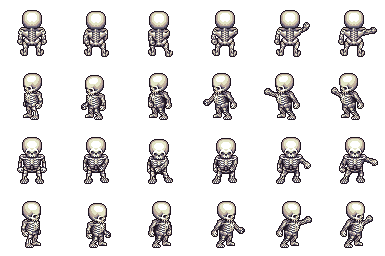
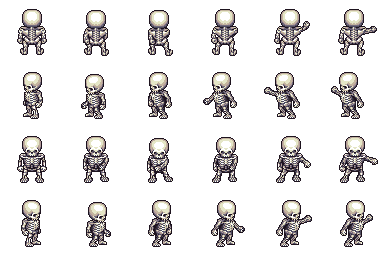
recropped skeleton attack png, now slightly better alligned

diff --git a/TimeCaster/code/Enemy.cpp b/TimeCaster/code/Enemy.cpp
@@ -218,7 +218,7 @@ void Enemy::Attack()
 	m_SpriteWeapon.setOrigin((64 * m_WeaponSize) / 2, (64 * m_WeaponSize) / 2);
 	m_SpriteWeapon.setScale(0.75, 0.75);
 
-	setSpriteFromSheet(IntRect(0, 0, 385, 64), 64);
+	setSpriteFromSheet(IntRect(0, 0, 384, 64), 64);
 
 
 
@@ -348,22 +348,22 @@ void Enemy::updateTextRect()
 	{
 		if (direction == Vector2f(0, 1)) // up
 		{
-			setSpriteFromSheet(IntRect(0, 0, 385, 64), 64);
+			setSpriteFromSheet(IntRect(0, 0, 384, 64), 64);
 		}
 
 		if (direction == Vector2f(0, -1)) // down
 		{
-			setSpriteFromSheet(IntRect(0, 128, 385, 64), 64);
+			setSpriteFromSheet(IntRect(0, 128, 384, 64), 64);
 		}
 
 		if (direction == Vector2f(1, 0)) // right
 		{
-			setSpriteFromSheet(IntRect(0, 192, 385, 64), 64);
+			setSpriteFromSheet(IntRect(0, 192, 384, 64), 64);
 		}
 
 		if (direction == Vector2f(-1, 0)) // left
 		{
-			setSpriteFromSheet(IntRect(0, 64, 385, 64), 64);
+			setSpriteFromSheet(IntRect(0, 64, 384, 64), 64);
 		}
 	}
 	m_SpriteWeapon.setPosition(m_Position);
